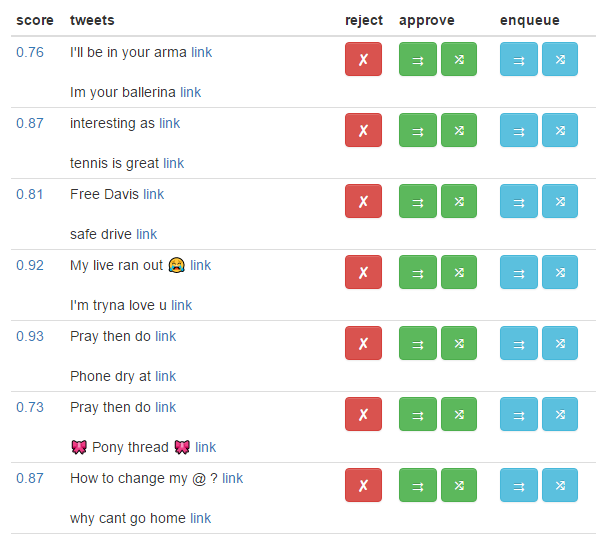
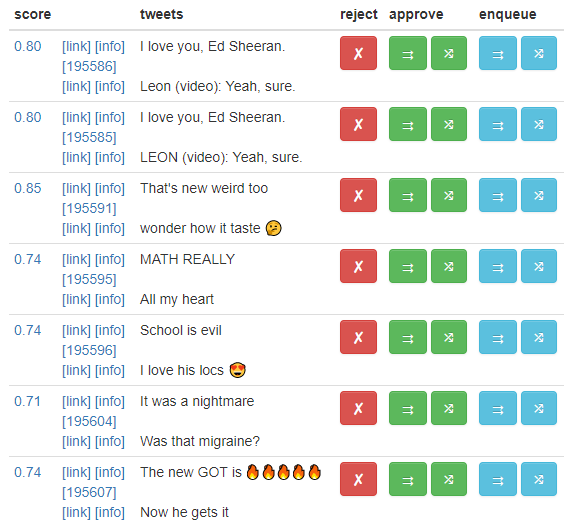
update screenshots in 12/30/2016 post to reflect current UI

diff --git a/_posts/2016-12-30-building-a-twitter-bot-to-retweet-anagrams.md b/_posts/2016-12-30-building-a-twitter-bot-to-retweet-anagrams.md
@@ -12,6 +12,8 @@ In this post, I share a small Node.js app I wrote to retweet anagrams to [@anagr
 
 They're also [posted to Tumblr](http://anagrammatweest.tumblr.com/).
 
+Note: I edited this post on 8/5/2017 to update screenshots to reflect cosmetic changes to the app since I first wrote this post. They're immaterial except when noted explicitly.
+
 # Background
 
 A little over a year ago, I wrote a small app in Scala to find anagrams in the Twitter firehose. That code is [here](https://github.com/bdrupieski/FindTwitterAnagrams), and I wrote a blog post about the process of finding a way to score anagram matches [here](http://blog.briandrupieski.com/finding-anagrams-on-twitter). This was inspired by an existing twitter bot, [anagramatron](https://twitter.com/anagramatron), that finds and retweets anagrams. I did this because I thought finding a good metric for scoring how interesting an anagram is (in other words, how likely you'd want to retweet it or share it with others) is an interesting problem, so I wanted to try it myself.
@@ -34,17 +36,25 @@ After trying out some Node.js and Express tutorials I realized it was so easy to
 
 One of the downsides to building this is that since I'm the only one currently using it I can't really show it off on the internet, other than through a post like this and screenshots.
 
-I review the anagrams using an infinite list with buttons for actions to take for that anagram. The red X rejects, and I can either immediately approve each anagram or enqueue it to be retweeted and posted to Tumblr later. The arrows indicate in which order the tweets should be posted.
+I review the anagrams in a table sorted by a combination of score and time, with buttons for actions to take for that anagram. The red X rejects, and I can either immediately approve each anagram or enqueue it to be retweeted and posted to Tumblr later. The arrows indicate in which order the tweets should be posted.
 
 ![anagram list](/assets/buildingtwitterbottofindanagrams/anagram_list.png){: .center-this }
 
 There are similar lists to unretweet and unreject matches that have been previously approved or rejected.
 
-I use the `node-schedule` module to retweet anagrams on a schedule to space them out so that my retweets don't overwhelm my followers' feeds.
+I use the `node-schedule` module to retweet anagrams on a schedule to space them out so that my retweets don't overwhelm followers' feeds. Here's what that queue looks like, where I can also see if a queued match contains a tweet that I've already retweeted:
+
+![anagram list](/assets/buildingtwitterbottofindanagrams/match_queue.png){: .center-this }
+
+You can't retweet a tweet twice, so if a match contains a tweet I've already retweeted, then I can't retweet that match again; I can only post it to tumblr. If I retweeted the other match long enough ago, I'll often unretweet it so that the queued match can be successfully retweeted.
+
+In the above screenshot, I've enqueued two matches that both have the tweet "I love you, Ed Sheeran.". That one tweet matched with two other tweets, "Leon (video): Yeah, sure." and "LEON (video): Yeah, sure.". Match 185906 contains "I love you, Ed Sheeran." or "LEON (video): Yeah, sure.". I know it contains "LEON (video): Yeah, sure." since the previously queued match isn't marked in the same way, which has "I love you, Ed Sheeran.". Once 195586 is retweeted, both of the tweets in 195585 will have been retweeted, so it doesn't make sense to unretweet the tweets in 185906.
 
 The breakdown of the interesting factor score can be viewed in a modal pop-up by clicking on the score in the list:
 
 ![score pop-up](/assets/buildingtwitterbottofindanagrams/score_pop_up.png){: .center-this }
+
+In the above screenshot the date of the match's creation is 8/5/2017 even though this post is dated 12/30/2016. I updated some of the screenshots on 8/5/2017 to reflect changes I made shortly after 12/30/2016. However, this screenshot in particular reveals changes I've made to the scoring system after 12/30/2016. I describe the scoring system a little later in this post as of 12/30/2016, but since it would require extensive editing to update that section I've left that alone. If I write a new blog post on this topic I'll describe the changes there. It's already weird enough editing an old post months later, but it was bugging me that some of the screenshots I had in here no longer reflect what the UI looks like.
 
 For fun I also have a page to show all the current N-way anagrams, where there are more than two tweets that form an anagram. This tends to happen quite a bit with variants on common phrases like "good morning" or "happy new year". For example, I have six tweets for the stripped sorted text "aabdhiimrsttyyyyyyy":
 
